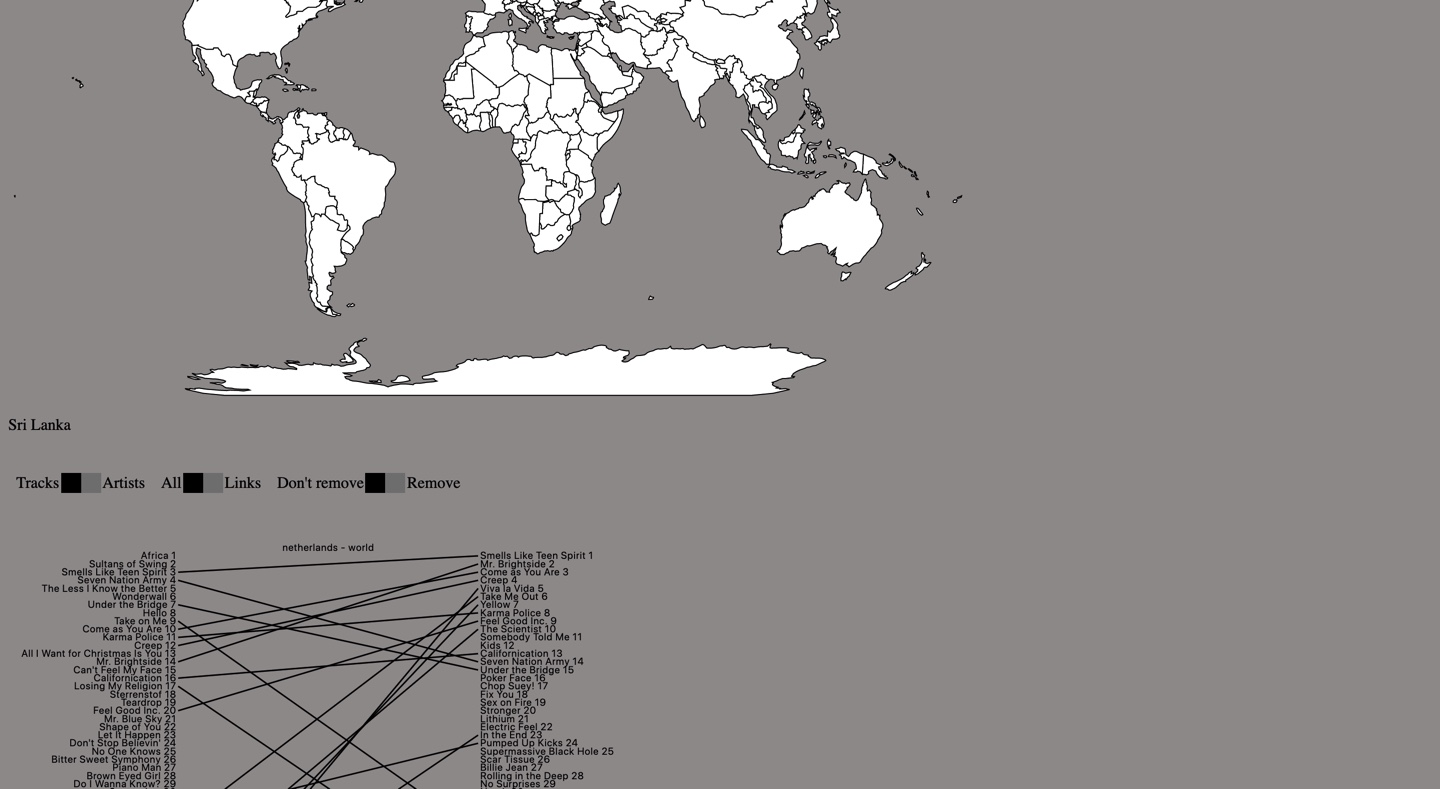
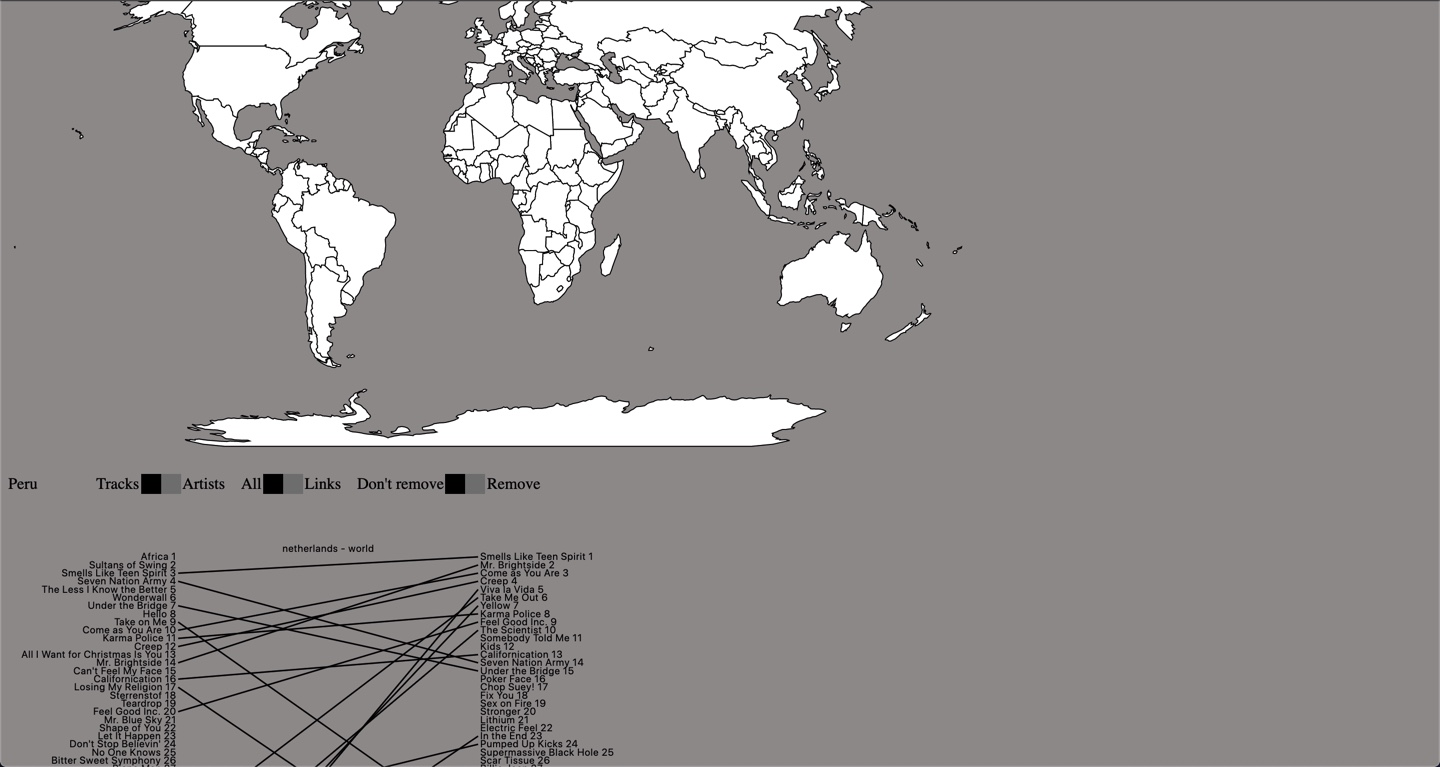
added country name hover to be in the settings div

Changed region(s): [[0.0, 0.0, 0.6562, 0.6597], [0.0312, 0.6897, 0.4375, 1.0]]

diff --git a/public/index.html b/public/index.html
@@ -8,8 +8,8 @@
   </head>
   <body>
     <svg width="1000" height="500"></svg>
-    <p id="countryTextArea">land</p>
     <div class="settings">
+      <p id="countryTextArea">land</p>
       <div class="tracksOrArtistsDiv">
         <p>Tracks</p>
         <label class="switch">

diff --git a/public/css/css.css b/public/css/css.css
@@ -79,4 +79,9 @@ svg.plot {
 .settings {
   display: flex;
   flex-direction: row;
+  align-items: center;
+}
+
+.settings > p {
+  width: 80px;
 }
